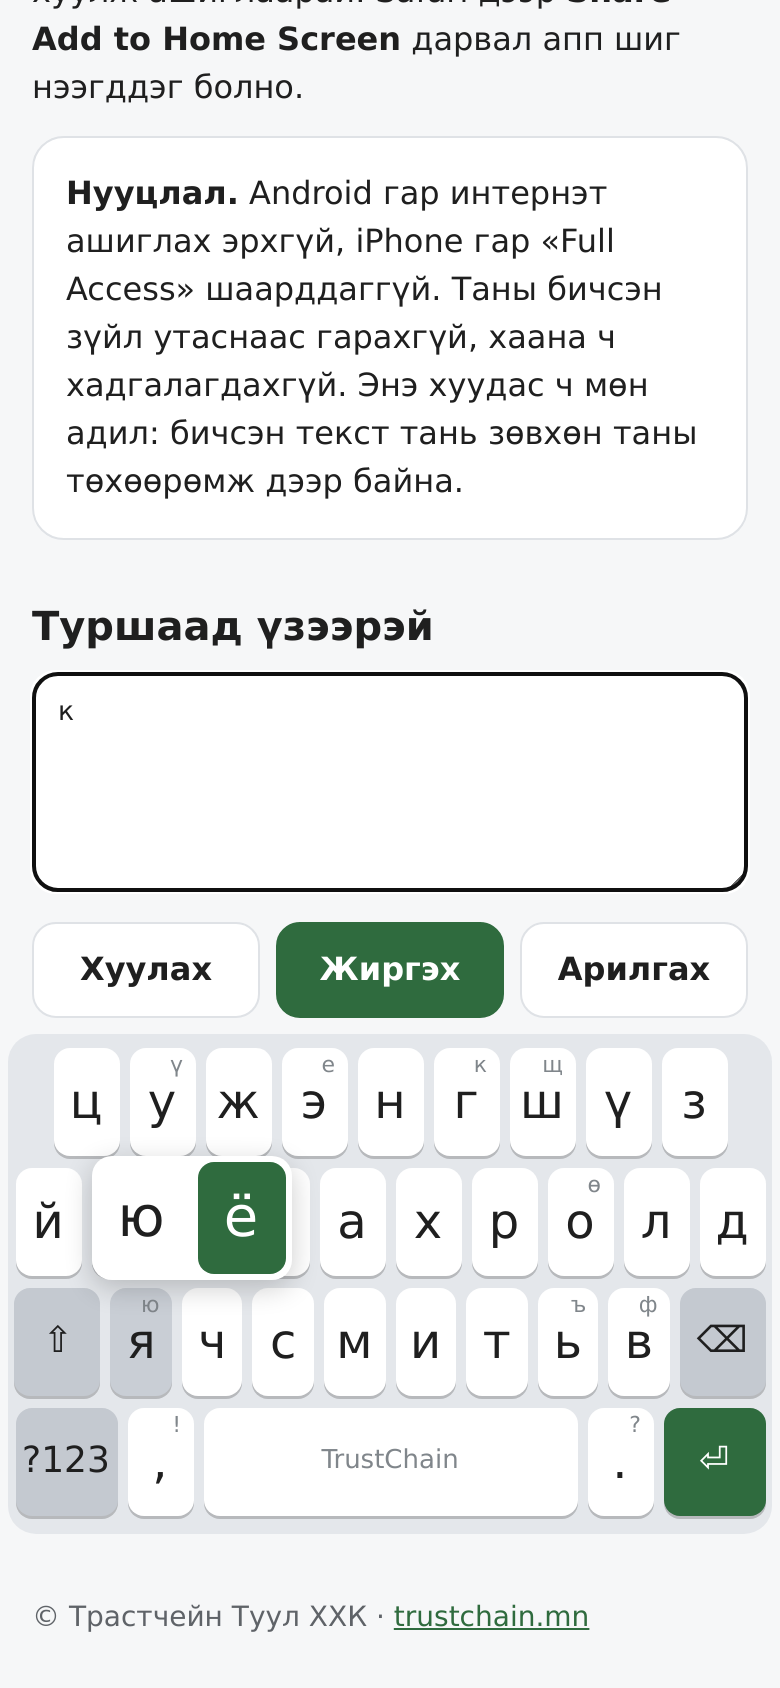
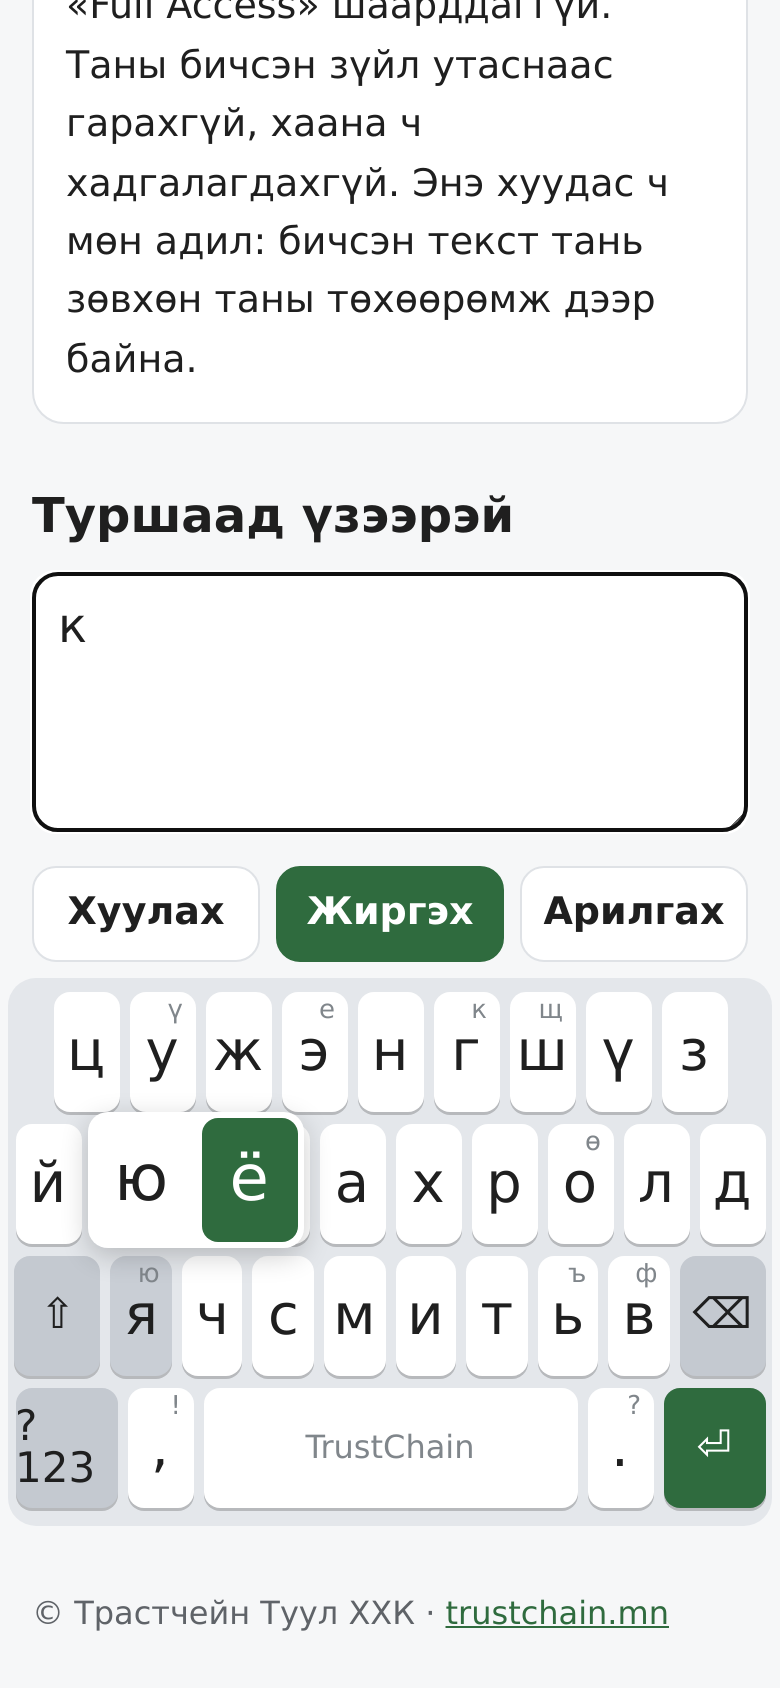
Web: larger text and keys, pinch-zoom allowed again (double-tap zoom stays off)
Claude-Session: https://claude.ai/code/session_01GwrqJs8sqTnCJ6VLUoUTLg

diff --git a/web/index.html b/web/index.html
@@ -2,7 +2,7 @@
 <html lang="mn">
 <head>
 <meta charset="utf-8">
-<meta name="viewport" content="width=device-width, initial-scale=1, maximum-scale=1, viewport-fit=cover">
+<meta name="viewport" content="width=device-width, initial-scale=1, viewport-fit=cover">
 <title>TrustChain Keyboard</title>
 <meta name="description" content="Монгол кирилл гар: 35 үсэг, 27 том товч. Ховор үсэг удаан дарахад гарна. Android болон iPhone.">
 <meta name="theme-color" content="#2F6B3E">
@@ -14,43 +14,44 @@
 :root{--bg:#f6f7f8;--card:#fff;--ink:#1f1f1f;--muted:#5f6368;--brand:#2F6B3E;--on-brand:#fff;--kb:#e4e7eb;--key:#fff;--key-down:#c9ced5;--special:#c4c9d0;--hint:#80868b;--shadow:rgba(0,0,0,.2);--line:#dfe2e6}
 @media (prefers-color-scheme:dark){:root{--bg:#121314;--card:#1e2022;--ink:#ededed;--muted:#9aa0a6;--brand:#a8d5ac;--on-brand:#10301a;--kb:#1b1d1f;--key:#3a3d41;--key-down:#55595e;--special:#2b2e31;--hint:#9aa0a6;--shadow:rgba(0,0,0,.5);--line:#2e3134}}
 *{box-sizing:border-box;touch-action:manipulation}
-html,body{margin:0;background:var(--bg);color:var(--ink);font:16px/1.5 system-ui,-apple-system,"Segoe UI",Roboto,sans-serif}
+html,body{margin:0;background:var(--bg);color:var(--ink);font:19px/1.55 system-ui,-apple-system,"Segoe UI",Roboto,sans-serif}
 main{max-width:680px;margin:0 auto;padding:0 16px calc(24px + env(safe-area-inset-bottom))}
 header{display:flex;align-items:center;gap:10px;padding:14px 0}
 header img{width:32px;height:32px}
-header a{color:var(--brand);font-weight:700;text-decoration:none;font-size:18px}
-h1{font-size:28px;line-height:1.2;margin:8px 0}
-h2{font-size:20px;margin:28px 0 8px}
+header a{color:var(--brand);font-weight:700;text-decoration:none;font-size:21px}
+h1{font-size:34px;line-height:1.2;margin:8px 0}
+h2{font-size:24px;margin:28px 0 8px}
 p{margin:8px 0}
 .muted{color:var(--muted)}
 .btn{display:inline-flex;align-items:center;justify-content:center;gap:8px;min-height:48px;padding:0 18px;border-radius:12px;border:1px solid var(--line);background:var(--card);color:var(--ink);font:inherit;font-weight:600;text-decoration:none;cursor:pointer}
 .btn.primary{background:var(--brand);border-color:var(--brand);color:var(--on-brand)}
-.big{width:100%;font-size:18px;min-height:56px}
+.big{width:100%;font-size:21px;min-height:60px}
 .card{background:var(--card);border:1px solid var(--line);border-radius:16px;padding:16px;margin:12px 0}
 ol{padding-left:22px;margin:8px 0}
 li{margin:4px 0}
 .pairs{display:flex;flex-wrap:wrap;gap:6px;margin:10px 0}
-.pairs span{border:1px solid var(--line);border-radius:8px;padding:2px 8px;background:var(--card);font-weight:600}
+.pairs span{border:1px solid var(--line);border-radius:8px;padding:4px 10px;font-size:20px;background:var(--card);font-weight:600}
 /* demo */
-textarea{width:100%;min-height:110px;border-radius:12px;border:1px solid var(--line);background:var(--card);color:var(--ink);font:20px/1.4 inherit;font-family:inherit;padding:12px;resize:vertical}
+textarea{width:100%;min-height:130px;border-radius:12px;border:1px solid var(--line);background:var(--card);color:var(--ink);font:24px/1.4 inherit;font-size:24px;font-family:inherit;padding:12px;resize:vertical}
 .actions{display:flex;gap:8px;margin:8px 0}
 .actions .btn{flex:1;padding:0 8px}
 .kb{background:var(--kb);border-radius:14px;padding:4px 1px 6px;margin:0 -12px;user-select:none;-webkit-user-select:none;touch-action:none;-webkit-touch-callout:none;position:relative}
 .row{display:flex;justify-content:center}
-.key{position:relative;flex:1 1 0;height:54px;margin:3px 2.5px;border:0;border-radius:8px;background:var(--key);color:var(--ink);font:24px/1 system-ui,-apple-system,sans-serif;box-shadow:0 1.5px 0 var(--shadow);display:flex;align-items:center;justify-content:center;padding:0;max-width:calc(10% - 5px)}
+.key{position:relative;flex:1 1 0;height:60px;margin:3px 2.5px;border:0;border-radius:8px;background:var(--key);color:var(--ink);font:28px/1 system-ui,-apple-system,sans-serif;box-shadow:0 1.5px 0 var(--shadow);display:flex;align-items:center;justify-content:center;padding:0;max-width:calc(10% - 5px)}
 .key.w14{flex-grow:1.4;max-width:calc(14% - 6px)}
 .key.w15{flex-grow:1.5;max-width:calc(15% - 6px)}
-.key.space{flex-grow:4.5;max-width:none;font-size:13px;color:var(--hint)}
-.key.special{background:var(--special);font-size:18px}
+.key.space{flex-grow:4.5;max-width:none;font-size:16px;color:var(--hint)}
+.key.special{background:var(--special);font-size:21px}
+.key.w15{font-size:18px;white-space:nowrap}
 .key.accent{background:var(--brand);color:var(--on-brand)}
 .key.down{background:var(--key-down)}
-.key small{position:absolute;top:3px;right:6px;font-size:11px;color:var(--hint)}
+.key small{position:absolute;top:3px;right:6px;font-size:13px;color:var(--hint)}
 .bubble{position:absolute;display:flex;background:var(--card);border-radius:10px;box-shadow:0 4px 14px var(--shadow);z-index:5;pointer-events:none}
-.bubble div{min-width:44px;height:56px;display:flex;align-items:center;justify-content:center;font-size:28px;border-radius:8px;margin:3px}
+.bubble div{min-width:48px;height:62px;display:flex;align-items:center;justify-content:center;font-size:32px;border-radius:8px;margin:3px}
 .bubble div.sel{background:var(--brand);color:var(--on-brand)}
 .toast{position:fixed;left:50%;bottom:24px;transform:translateX(-50%);background:var(--ink);color:var(--bg);padding:10px 16px;border-radius:10px;opacity:0;transition:opacity .2s;pointer-events:none}
 .toast.show{opacity:1}
-footer{margin-top:32px;font-size:14px}
+footer{margin-top:32px;font-size:16px}
 footer a{color:var(--brand)}
 </style>
 </head>
